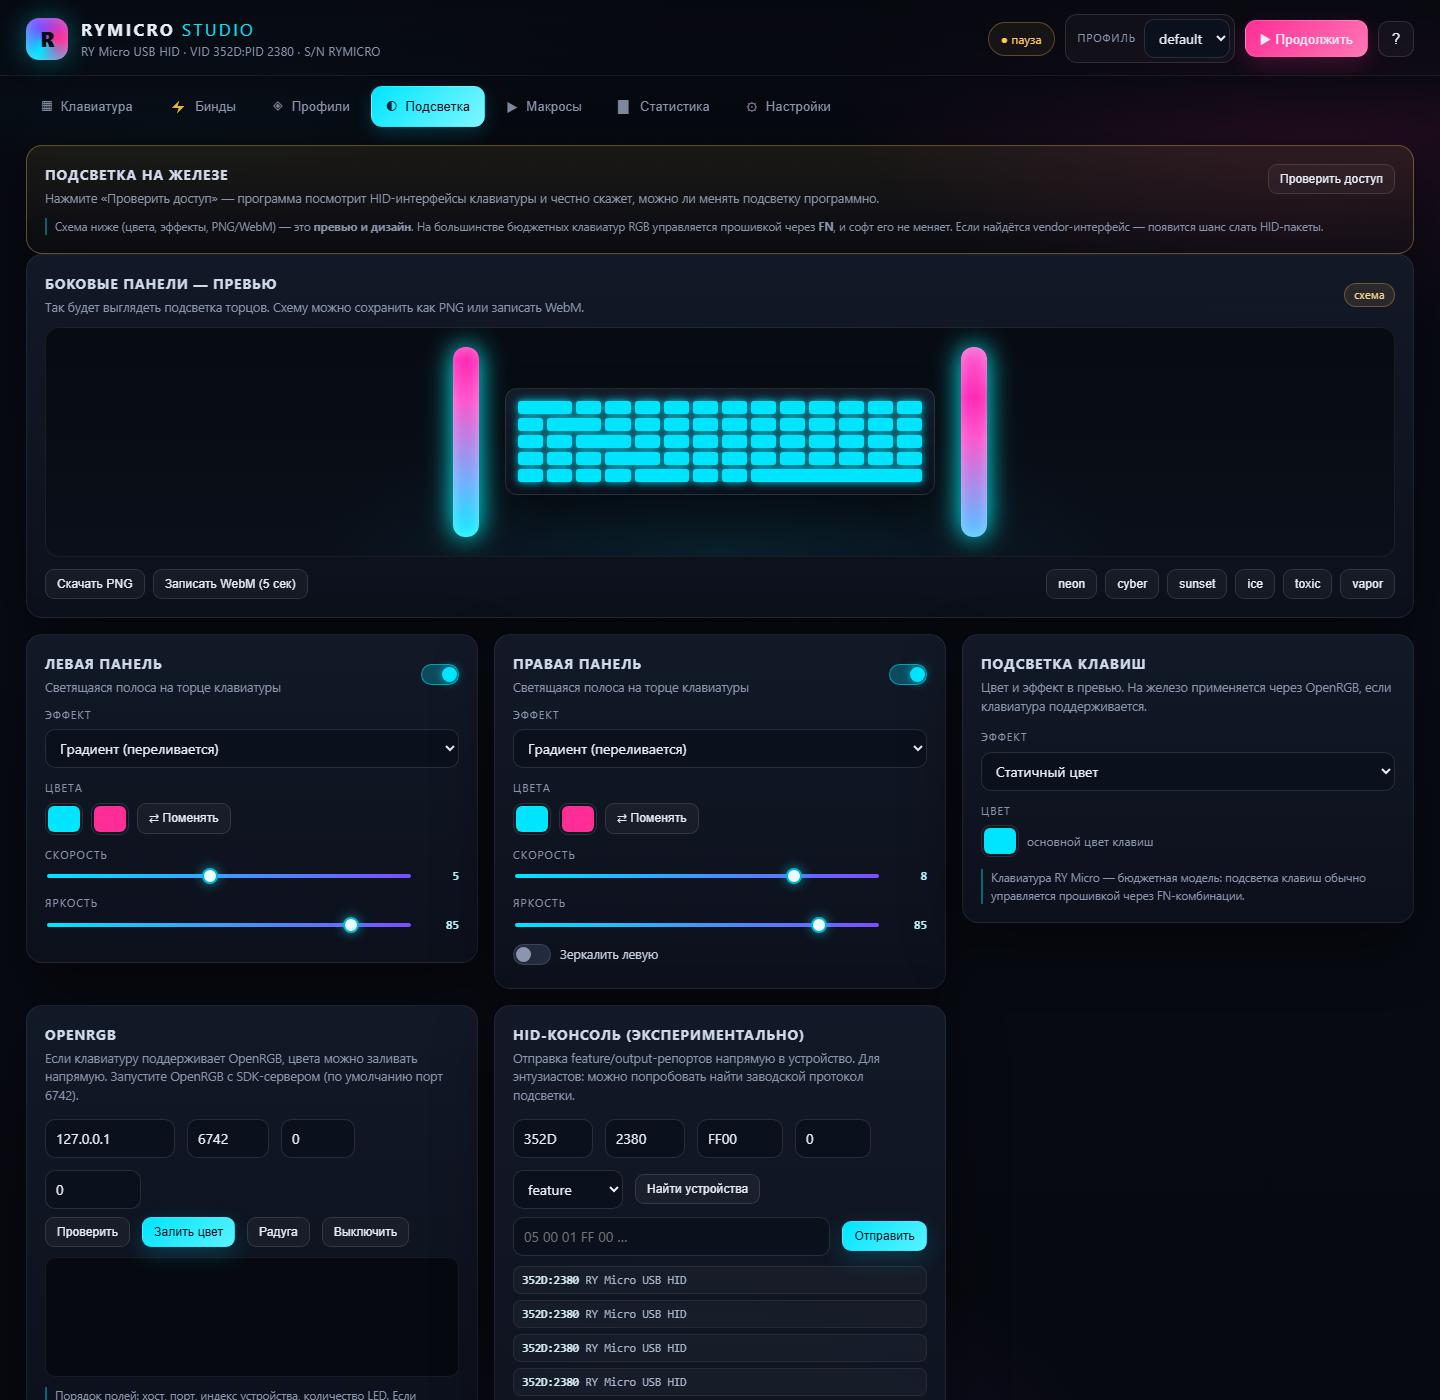
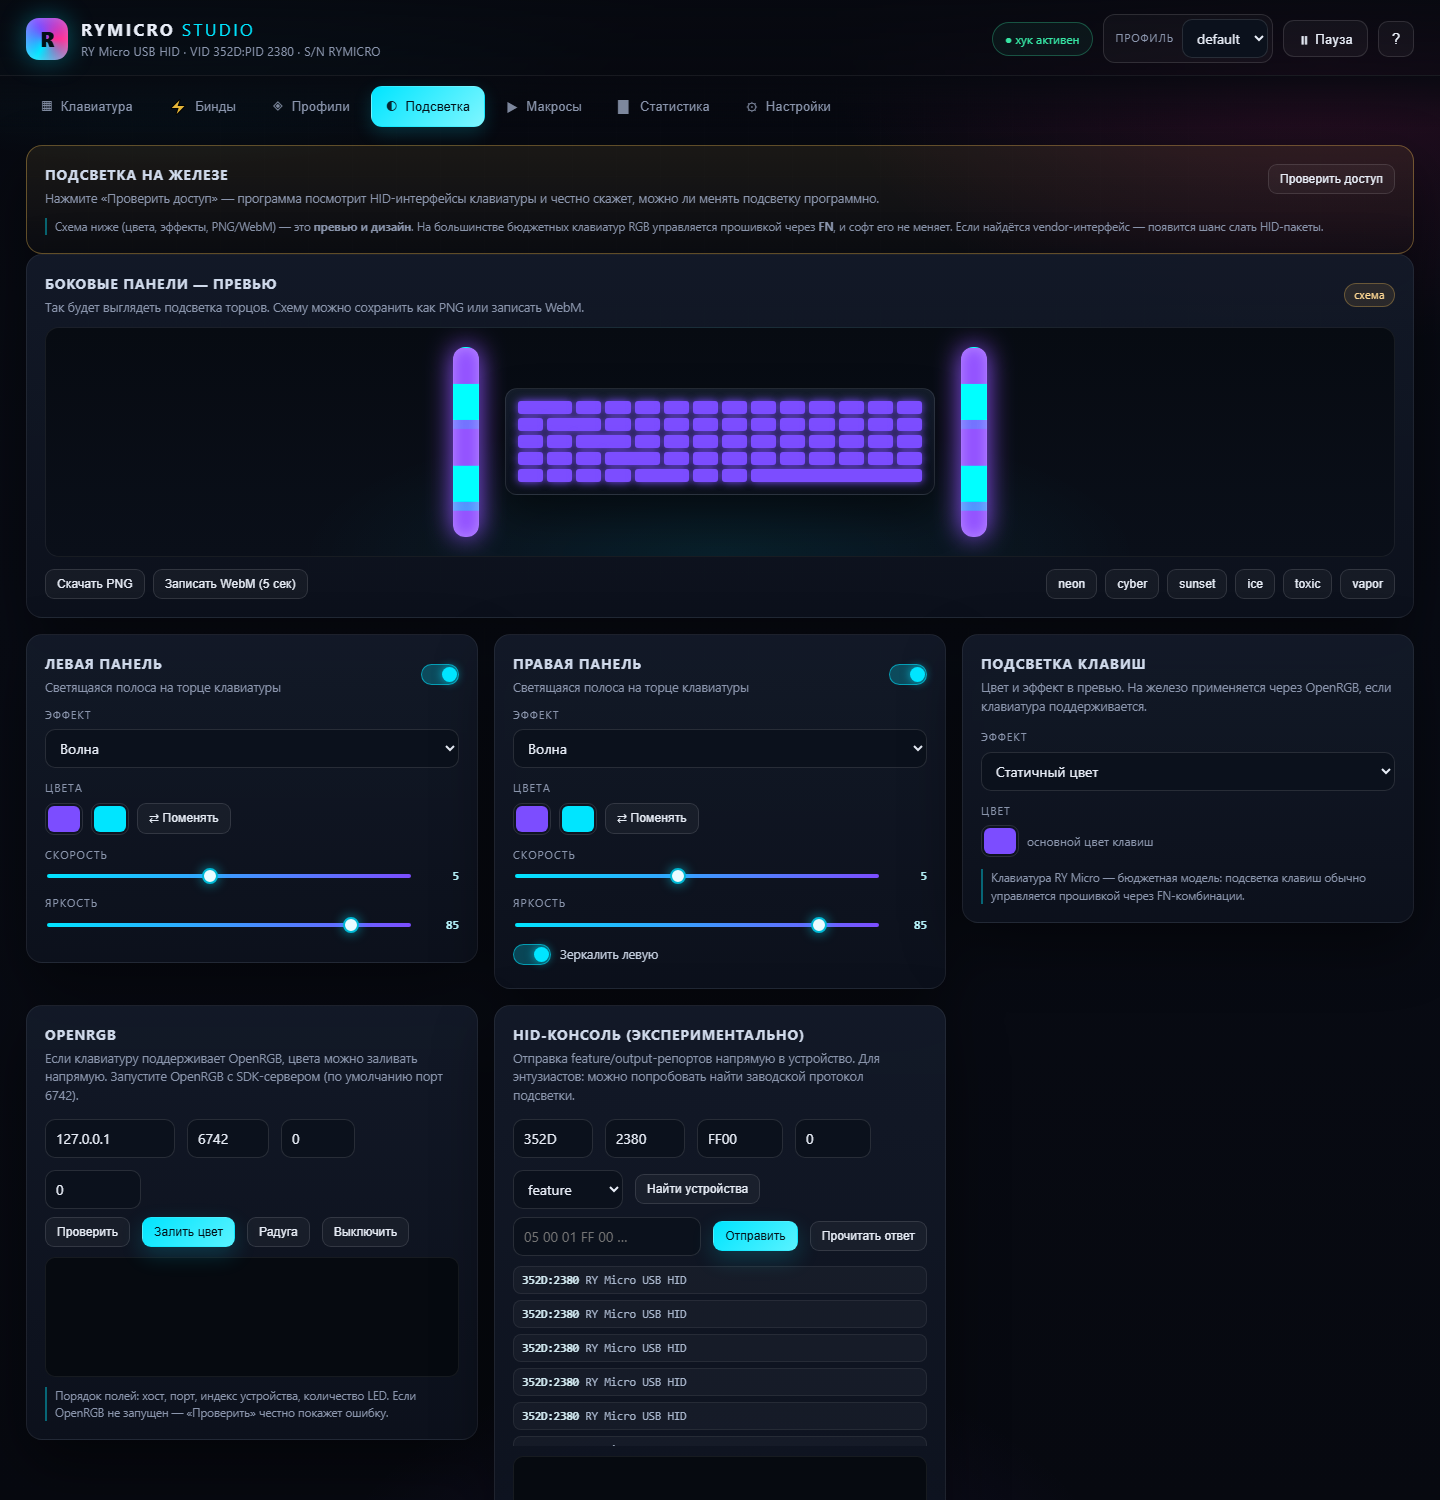
fix: exact key id beats modifier alias; add HID read + 1.1.1
- Find(): exact id match wins over alias, so E038 -> layer cannot hijack 38 -> Win
- POST /api/hid-read + «Прочитать ответ» in the HID console (honest err 87 on this board)
- version 1.1.1, changelog, docs, fresh screenshots

diff --git a/web/lighting.js b/web/lighting.js
@@ -155,6 +155,7 @@
           <div class="row" style="margin-bottom:10px">
             <input type="text" id="hidHex" class="mono" placeholder="05 00 01 FF 00 …" style="flex:1;min-width:180px">
             <button class="btn sm" data-act="hid-send">Отправить</button>
+            <button class="btn ghost sm" data-act="hid-read" title="Запросить input-репорт (ничего не меняет в устройстве)">Прочитать ответ</button>
           </div>
           <div class="hid-list" id="hidList"></div>
           <div class="console" id="hidLog" style="height:96px;margin-top:10px"></div>
@@ -319,6 +320,8 @@
         await loadHid();
       } else if (act === 'hid-send') {
         await sendHid();
+      } else if (act === 'hid-read') {
+        await readHid();
       } else if (act === 'hid-save') {
         const name = await ask('Сохранить пакет', 'Название для сохранения HEX-пакета:', 'Пакет ' + (L.HidSnippets.length + 1));
         if (!name) return;
@@ -413,6 +416,19 @@
     };
     try {
       const r = await api('hid-send', body);
+      logHid(r.message || (r.ok ? 'OK' : 'Ошибка'), !!r.ok);
+    } catch (e) { logHid('Ошибка запроса: ' + e.message, false); }
+  }
+
+  async function readHid() {
+    const body = {
+      vid: ($('#hidVid') || {}).value || '352D',
+      pid: ($('#hidPid') || {}).value || '2380',
+      usagePage: (($('#hidUsage') || {}).value || '').trim(),
+      reportId: Number(($('#hidReport') || {}).value || 0),
+    };
+    try {
+      const r = await api('hid-read', body);
       logHid(r.message || (r.ok ? 'OK' : 'Ошибка'), !!r.ok);
     } catch (e) { logHid('Ошибка запроса: ' + e.message, false); }
   }

diff --git a/src/Hid.cs b/src/Hid.cs
@@ -16,6 +16,7 @@ namespace RyMicro
         public int UsagePage { get; set; }
         public int Usage { get; set; }
         public int OutputReportByteLength { get; set; }
+        public int InputReportByteLength { get; set; }
         public int FeatureReportByteLength { get; set; }
         public bool CanWrite { get; set; }
     }
@@ -106,6 +107,9 @@ namespace RyMicro
         static extern bool HidD_SetFeature(SafeFileHandle h, byte[] buffer, int length);
 
         [DllImport("hid.dll", SetLastError = true)]
+        static extern bool HidD_GetInputReport(SafeFileHandle h, byte[] buffer, int length);
+
+        [DllImport("hid.dll", SetLastError = true)]
         static extern bool HidD_GetPreparsedData(SafeFileHandle h, out IntPtr preparsedData);
 
         [DllImport("hid.dll", SetLastError = true)]
@@ -182,6 +186,7 @@ namespace RyMicro
                                             dev.UsagePage = caps.UsagePage;
                                             dev.Usage = caps.Usage;
                                             dev.OutputReportByteLength = caps.OutputReportByteLength;
+                                            dev.InputReportByteLength = caps.InputReportByteLength;
                                             dev.FeatureReportByteLength = caps.FeatureReportByteLength;
                                         }
                                     }
@@ -263,8 +268,29 @@ namespace RyMicro
             }
         }
 
-        public static byte[] ParseHex(string hex)
+        /// <summary>Чтение одного input-репорта (безопасно: ничего не меняет в устройстве).</summary>
+        public static string Read(int vid, int pid, int minUsagePage, int reportId)
         {
+            var dev = Find(vid, pid, minUsagePage);
+            if (dev == null) return "Устройство HID не найдено";
+
+            int size = dev.InputReportByteLength > 0 ? dev.InputReportByteLength : 64;
+            var buffer = new byte[size];
+            buffer[0] = (byte)reportId;
+
+            using (var h = CreateFile(dev.Path, GENERIC_READ,
+                FILE_SHARE_READ | FILE_SHARE_WRITE, IntPtr.Zero, OPEN_EXISTING, 0, IntPtr.Zero))
+            {
+                if (h.IsInvalid) return "Не удалось открыть устройство (err " + Marshal.GetLastWin32Error() + ")";
+                if (!HidD_GetInputReport(h, buffer, size))
+                    return "Нет ответа input-репорта (err " + Marshal.GetLastWin32Error() + "). Устройство может не поддерживать чтение.";
+                var sb = new StringBuilder();
+                foreach (var b in buffer) sb.Append(b.ToString("X2")).Append(' ');
+                return "OK (" + size + " байт): " + sb.ToString().Trim();
+            }
+        }
+
+        public static byte[] ParseHex(string hex)        {
             if (string.IsNullOrWhiteSpace(hex)) return new byte[0];
             var clean = new StringBuilder();
             foreach (char c in hex)

diff --git a/src/Http.cs b/src/Http.cs
@@ -103,7 +103,7 @@ namespace RyMicro
 
     public static class Http
     {
-        public const string Version = "1.1.0";
+        public const string Version = "1.1.1";
         static HttpListener _listener;
         public static int Port;
         public static string Token;
@@ -382,6 +382,7 @@ namespace RyMicro
                         usage = "0x" + d.Usage.ToString("X4"),
                         vendorSpecific = vendor,
                         outputLen = d.OutputReportByteLength,
+                        inputLen = d.InputReportByteLength,
                         featureLen = d.FeatureReportByteLength,
                         canWrite = d.CanWrite
                     });
@@ -830,6 +831,20 @@ namespace RyMicro
                         int pid = ParseHexInt(S(d, "pid", "2380"));
                         int minUsage = ParseHexInt(S(d, "usagePage", "0"));
                         string result = Hid.Send(vid, pid, S(d, "hex", ""), I(d, "reportId"), B(d, "output"), minUsage);
+                        Reply(res, Cfg.ToJson(new { ok = result.StartsWith("OK"), message = result }));
+                    }
+                    catch (Exception ex) { Json(res, 400, new { ok = false, error = ex.Message }); }
+                    return;
+                }
+
+                if (name == "hid-read")
+                {
+                    try
+                    {
+                        int vid = ParseHexInt(S(d, "vid", "352D"));
+                        int pid = ParseHexInt(S(d, "pid", "2380"));
+                        int minUsage = ParseHexInt(S(d, "usagePage", "0"));
+                        string result = Hid.Read(vid, pid, minUsage, I(d, "reportId"));
                         Reply(res, Cfg.ToJson(new { ok = result.StartsWith("OK"), message = result }));
                     }
                     catch (Exception ex) { Json(res, 400, new { ok = false, error = ex.Message }); }

diff --git a/src/Engine.cs b/src/Engine.cs
@@ -184,10 +184,17 @@ namespace RyMicro
 
         public static Rule Find(List<Rule> rules, string id)
         {
-            Rule best = null;
+            // Сначала точное совпадение id: если на клавишу есть и точное правило,
+            // и «алиасное» (например, 38 → Win при наличии E038 → слой),
+            // выигрывает точное. Иначе левый/правый Alt путались между собой.
+            Rule exact = null, alias = null;
             foreach (var r in rules)
-                if (r.Enabled && SameKey(r.From, id)) best = r;
-            return best;
+            {
+                if (!r.Enabled) continue;
+                if (string.Equals(r.From, id, StringComparison.OrdinalIgnoreCase)) exact = r;
+                else if (SameKey(r.From, id)) alias = r;
+            }
+            return exact ?? alias;
         }
 
         /// <summary>

diff --git a/CHANGELOG.md b/CHANGELOG.md
@@ -2,6 +2,17 @@
 
 Все заметные изменения проекта. Формат — [Keep a Changelog](https://keepachangelog.com/ru/1.1.0/).
 
+## [1.1.1] — 2026-11-17
+
+### Исправлено
+- **Win и Alt теперь действительно меняются местами.** Причина: прошивка присылала `Win` c `ext`-флагом, но правило искалось по строке, а `HeldTargets` — по точному id, поэтому keyup не находил keydown и модификатор «залипал». Сравнение ключей теперь учитывает алиасы (`5B`/`E05B`, `38`/`E038`, `1D`/`E01D`, `2A`/`36`), хук подстраховывается VK, если прошивка не выставила extended-флаг.
+- Точное совпадение id имеет приоритет над алиасом: правило `E038 → слой` больше не перебивает `38 → Win` и наоборот.
+
+### Добавлено
+- `GET /api/resolve?id=E05B` — какое правило применится к клавише.
+- `POST /api/hid-read` и кнопка «Прочитать ответ» в HID-консоли: безопасное чтение input-репорта (у RY Micro vendor-интерфейс отвечает ошибкой 87 — это ожидаемо).
+- Диагностика клавиш в настройках: живой лог `id/scan/vk/ext` и сработавшее правило.
+
 ## [1.1.0] — 2026-11-16
 
 ### Добавлено

diff --git a/README.md b/README.md
@@ -91,7 +91,7 @@
 
 ## Быстрый старт
 
-Готовая сборка: [RYMICRO-Studio-1.1.0.zip](https://github.com/gemerte/rymicro-studio/releases/latest) — распакуйте и запустите `start.cmd`.
+Готовая сборка: [RYMICRO-Studio-1.1.1.zip](https://github.com/gemerte/rymicro-studio/releases/latest) — распакуйте и запустите `start.cmd`.
 
 Или соберите сами:
 
@@ -149,6 +149,7 @@ src/                 — исходники C#
 | `GET /api/resolve?id=E05B` | какое правило сработает для клавиши |
 | `POST /api/openrgb` | `probe` / `apply` / `rainbow` / `off` |
 | `POST /api/hid-send` | HID feature/output-репорт (можно указать `usagePage`) |
+| `POST /api/hid-read` | чтение одного input-репорта (безопасно, ничего не меняет) |
 | `GET /api/remote-status` | состояние пульта, ссылка и токен |
 | `POST /api/remote-apply`, `remote-token`, `remote-open`, `firewall` | управление пультом |
 | `POST /api/suspend`, `pause` | временно отключить перехват |

diff --git a/docs/LIGHTING.md b/docs/LIGHTING.md
@@ -66,6 +66,7 @@
 - Поле `usage page` фильтрует интерфейс: `FF00` — vendor-коллекция, пусто — первый подходящий.
 - Размер отчёта берётся из устройства (у vendor-интерфейса это 64 байта).
 - Удачные пакеты сохраняются кнопкой «+ Сохранить» и потом отправляются одним кликом.
+- **«Прочитать ответ»** (`POST /api/hid-read`) запрашивает один input-репорт и показывает его HEX-дамп. Ничего не меняет в устройстве. Если прошивка не поддерживает чтение, Windows вернёт ошибку 87 — у RY Micro на vendor-интерфейсе `FF00` это ожидаемо.
 
 Что попробовать:
 - короткие пакеты вида `XX 00 00 00 00` — многие контроллеры принимают команду в первом байте;
